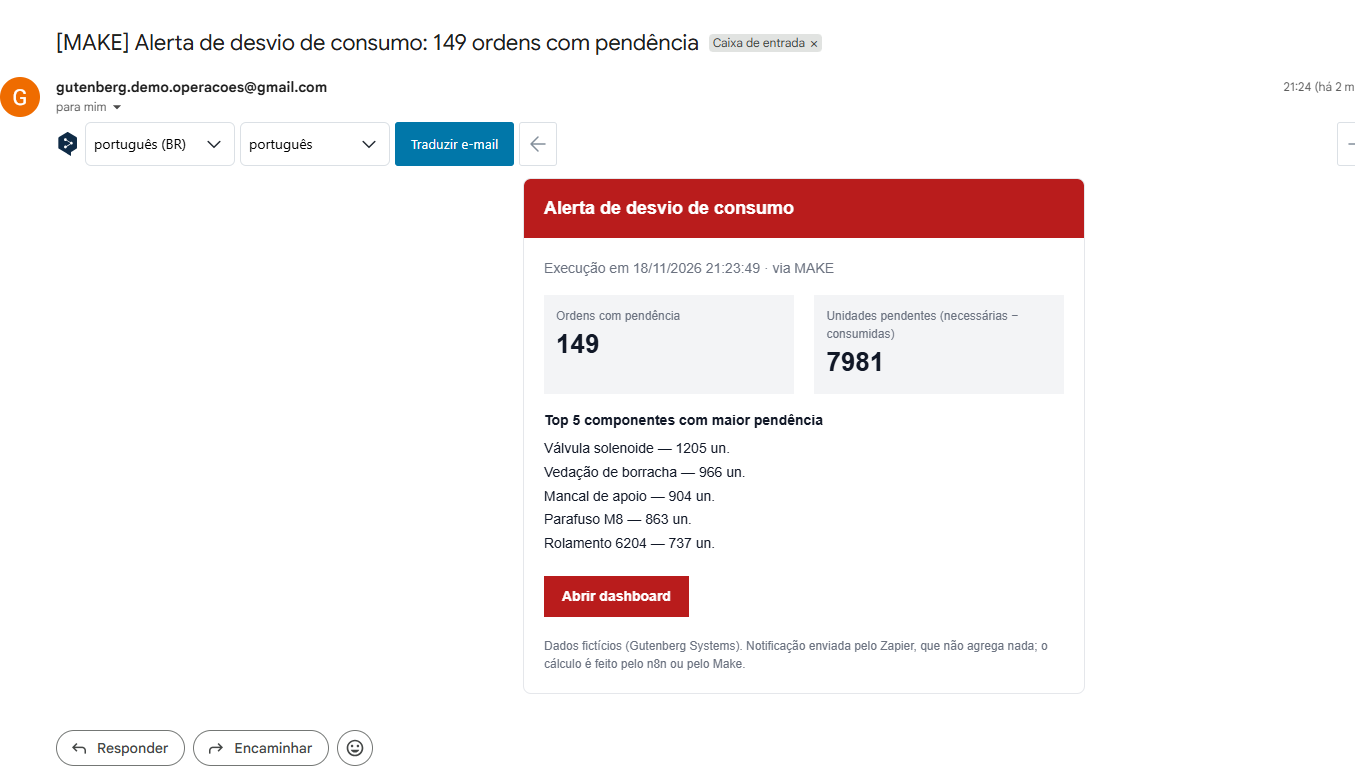
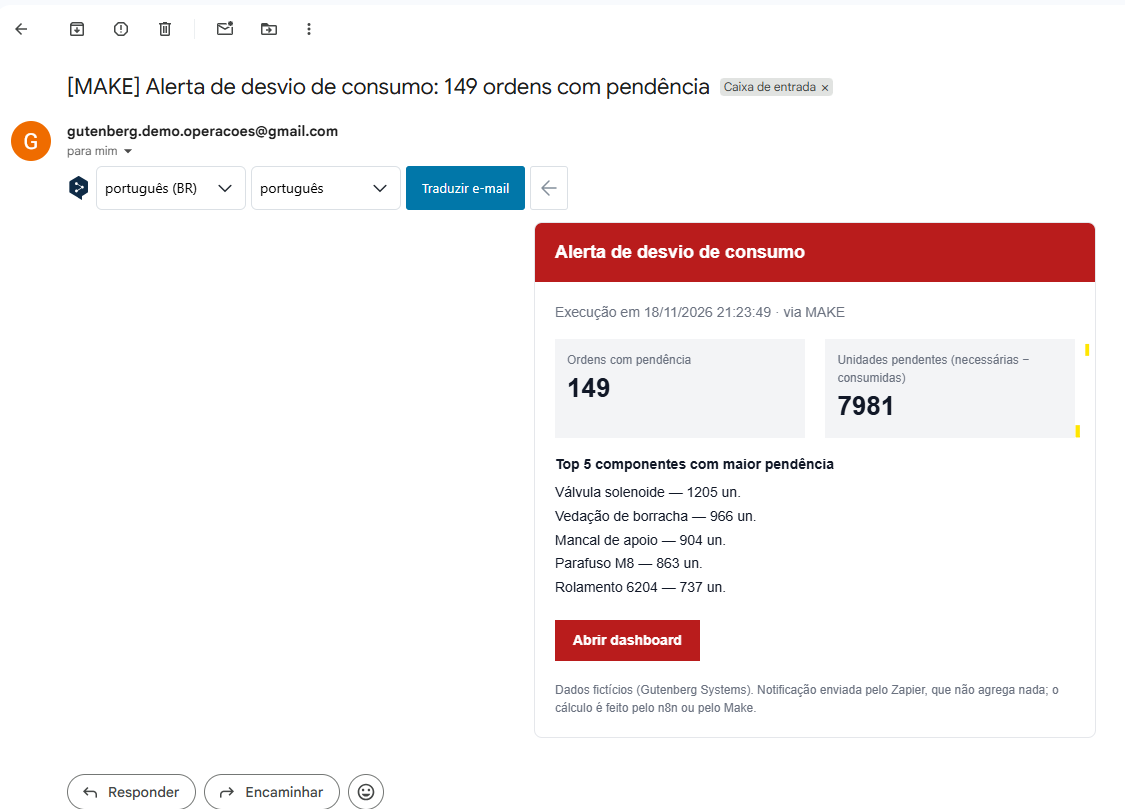
README: prints dos fluxos (n8n, Make, Zapier) e dos e-mails finais
Claude-Session: https://claude.ai/code/session_018DZ5grjPhkWmtCpdAua3U9

diff --git a/README.md b/README.md
@@ -71,6 +71,28 @@ E-mail recebido numa execução real (n8n):
 
 ![E-mail gerado pelo Zapier a partir da linha do n8n](docs/img/email-n8n.png)
 
+## Os fluxos e os e-mails
+
+Prints das ferramentas como ficaram ao final. Os arquivos exportados estão em [`n8n/workflow.json`](n8n/workflow.json) e [`make/blueprint.json`](make/blueprint.json).
+
+**n8n:** seis nós, execução com sucesso (200 linhas lidas, 149 mantidas pelo filtro, 1 linha gravada em `resumo`).
+
+![Fluxo do n8n: gatilho manual, leitura da aba ordens, filtro, agregação, código em JavaScript e gravação em resumo](docs/img/fluxo-n8n.png)
+
+**Make:** o mesmo cálculo, com o filtro `pendente > 0` na leitura, dois agregadores e um iterador. Cenário sob demanda e inativo, para não rodar junto com o n8n.
+
+![Cenário do Make: Search Rows, Array aggregator, Iterator, Array aggregator e Add a Row](docs/img/fluxo-make.png)
+
+**Zapier:** duas etapas, sempre ligado. Só repassa a linha nova de `resumo` para o Gmail.
+
+![Zap do Zapier: New Spreadsheet Row no Google Sheets e Send Email no Gmail](docs/img/fluxo-zapier.png)
+
+**E-mails recebidos:** o mesmo layout, com o prefixo da ferramenta que fez o cálculo.
+
+![E-mail [N8N] com os números e o top 5 em lista](docs/img/email-n8n.png)
+
+![E-mail [MAKE] com os mesmos números e o top 5 em lista](docs/img/email-make.png)
+
 ## Resultados medidos
 
 | Medida | Resultado | Como foi medida |
